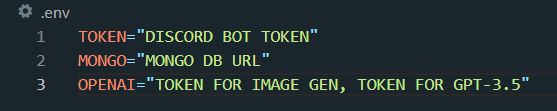
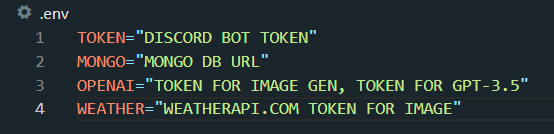
Погода переехала + мелкие изменения

diff --git a/cmds/slashCommands/Main/weather.js b/cmds/slashCommands/Main/weather.js
@@ -17,31 +17,26 @@ module.exports = {
 		const city = interaction.options.getString('город');
 		await interaction.deferReply();
 
-		gismeteo.getNow(city).then((cur) => {
+		await require('node-fetch')(`http://api.weatherapi.com/v1/current.json?key=${process.env.WEATHER}&q=${encodeURIComponent(city)}&lang=ru`).then(r => r.json()).then(r => {
 			const embed = new EmbedBuilder()
-				.setTitle(city)
-				.setDescription(`<:arrow:1140937463209152572> ${cur.summary}`)
+				.setTitle(r.location.name + ", " + r.location.country)
+				.setDescription(`<:arrow:1140937463209152572> ${r.current.condition.text}`)
 				.addFields(
 					{
 						name: 'Температура',
-						value: `Сейчас: **${cur.temp || '?'}°C**\nПо ощущениям: **${cur.temp_feels || '?'}°C**`,
-						inline: true,
-					},
-					{
-						name: 'Геомагнитное поле',
-						value: `**${cur.geomagnetic}**`.replace(1, 'Нет заметных возмущений').replace(2, 'Небольшие возмущения').replace(3, 'Слабая геомагнитная буря').replace(4, 'Малая геомагнитная буря').replace(5, 'Умеренная геомагнитная буря').replace(6, 'Сильная геомагнитная буря').replace(7, 'Жесткий геомагнитный шторм').replace(8, 'Экстремальный шторм'),
+						value: `Сейчас: **${r.current.temp_c || '?'}°C**\nПо ощущениям: **${r.current.feelslike_c || '?'}°C**`,
 						inline: true,
 					},
 					{
 						name: 'Прочее',
-						value: `Влажность: **${cur.humidity}%**\nВетер: **${cur.wind_speed} м/с (${cur.wind_dir})**\nДавление: **${cur.pressure} мм рт. ст.**`,
+						value: `Влажность: **${r.current.humidity}%**\nВетер: **${(r.current.wind_kph/3.6).toFixed(1)} м/с**\nДавление: **${r.current.pressure_mb} мм рт. ст.**`,
 						inline: false,
 					},
 				)
-				.setThumbnail(cur.image)
+				.setThumbnail("https:" + r.current.condition.icon)
 				.setColor(guild.colors.basic)
 				.setFooter({
-					text: 'Сервис: Gismeteo',
+					text: 'Сервис: WeatherApi 💖',
 				});
 
 			interaction.editReply({ embeds: [embed] });

diff --git a/cmds/slashCommands/Context/ImageToText.js b/cmds/slashCommands/Context/ImageToText.js
@@ -17,7 +17,7 @@ module.exports = {
 		const ret = await worker.recognize(attachment.url);
 		if (!ret.data.text) return interaction.editReply('<:no:1107254682100957224> | Текст на картинке отсутствует');
 		if (ret.data.text.length > 2000) return interaction.editReply('<:no:1107254682100957224> | На картинке более 2 тысяч символов');
-		interaction.editReply(ret.data.text);
+		interaction.editReply(ret.data.text || '<:no:1107254682100957224> | Что произошло?');
 		CheckAch(3, interaction.user.id, interaction.channel)
 		await worker.terminate();
 	},
